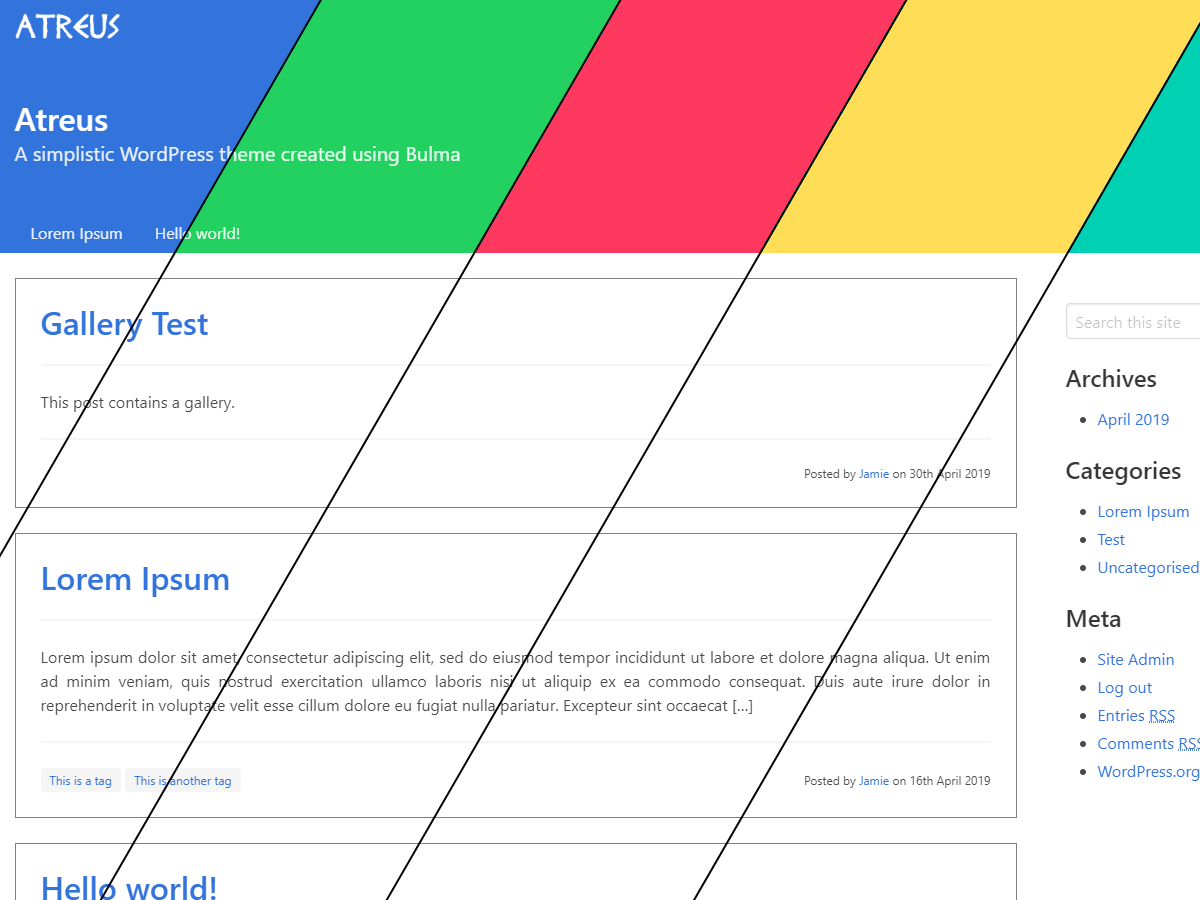
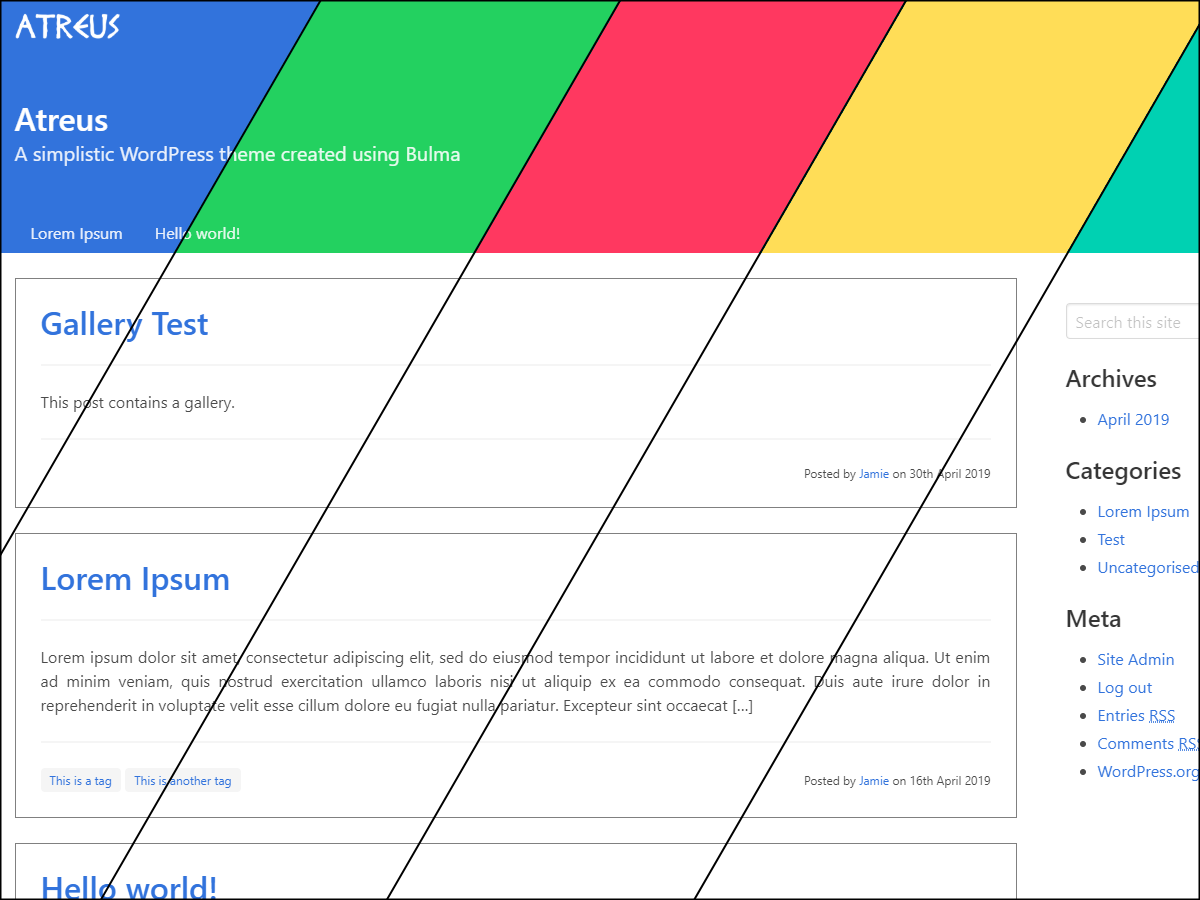
Version 1.1.2
Updated SitesbyJAM link to https.
Updated screenshot.

Changed region(s): [[0.0, 0.0, 1.0, 1.0], [0.0, 0.0, 0.0308, 0.0311]]

diff --git a/style.css b/style.css
@@ -4,7 +4,7 @@ Theme URI: http://sitesbyjam.co.uk/dev/atreus/
 Author: Jamie Malcolm
 Author URI: http://sitesbyJAM.co.uk/
 Description: A simplistic, yet beautiful, blog theme created using the Bulma framework.
-Version: 1.1.1
+Version: 1.1.2
 License: GNU General Public License v3 or later
 License URI: http://www.gnu.org/licenses/gpl-3.0.html
 Tags: right-sidebar, custom-menu, editor-style

diff --git a/footer.php b/footer.php
@@ -1,7 +1,7 @@
 	<footer class="footer">
         <div class="content has-text-centered">
             <p>
-				&copy; <?php echo date('Y'); ?> <?php _e('Copyright', 'atreus'); ?> <?php bloginfo('name'); ?>. <?php _e('Powered by WordPress', 'atreus'); ?>. <?php _e('Theme by', 'atreus'); ?> <a href="http://sitesbyjam.co.uk" target="_blank">SitesbyJAM</a>.
+				&copy; <?php echo date('Y'); ?> <?php _e('Copyright', 'atreus'); ?> <?php bloginfo('name'); ?>. <?php _e('Powered by WordPress', 'atreus'); ?>. <?php _e('Theme by', 'atreus'); ?> <a href="https://sitesbyjam.co.uk" target="_blank">SitesbyJAM</a>.
             </p>
         </div>
 	</footer>
